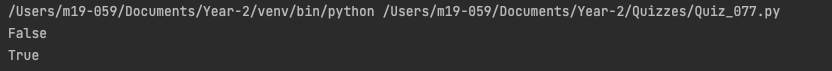
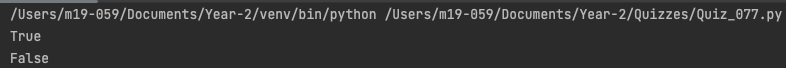
A lot of changes for MD files and py files

Changed region(s): [[0.0, 0.0, 1.0, 0.3235], [0.0, 0.7059, 0.0611, 0.9412], [0.0, 0.3824, 0.0611, 0.6176]]

diff --git a/Quizzes/Quiz_073.py b/Quizzes/Quiz_073.py
@@ -2,29 +2,38 @@ from Quiz_071 import InternetProtocol
 
 
 class RoutingTable:
-    def __init__(self, mac:str):
+    def __init__(self):
         self.routing_table = {}
-        self.mac_in = mac
 
-    def validate(self):
-        return len(self.mac_in) == 17 and self.mac_in.count(":") == 5
+    def validate(self, mac_in: str):
+        return len(mac_in) == 17 and mac_in.count(":") == 5
 
-    def get_ip(self):
-        ip_out = "Error"
-        if self.validate():
-            if self.mac_in in self.routing_table.keys():
-                ip_out = self.routing_table[self.mac_in]
+    def get_ip(self, mac_in):
+        if self.validate(mac_in):
+            ip = ""
+            if mac_in in self.routing_table.keys():
+                ip = self.routing_table[mac_in]
+                unique = False
+                while unique is False:  # Validating IP
+                    temp_class = InternetProtocol(1)
+                    temp_ip = temp_class.ipv6machine()
+                    if temp_ip != ip:
+                        unique = True
+                self.routing_table[mac_in].append(temp_ip[0])  # Adding new IP to the existing list
+
             else:
                 while True:
                     temp_class = InternetProtocol(1)
                     ip = temp_class.ipv6machine()
                     if not ip in self.routing_table.values():
-                        self.routing_table[self.mac_in] = ip
-                        ip_out = ip
+                        self.routing_table[mac_in] = []  # Creating an Empty list for the new MAC in the dictionary
+                        self.routing_table[mac_in].append(ip[0]) #  Adding the new IP to the list
                         break
-                        print(self.routing_table)
-        return ip_out
+        return self.routing_table
 
 
-a = RoutingTable("75:C0:01:03:G4:FB")
-(a.get_ip())
+a = RoutingTable()
+a.get_ip("00:1A:2B:3C:4D:5E")
+a.get_ip("12:34:56:78:90:AB")
+a.get_ip("00:1A:2B:3C:4D:5E")
+print(a.get_ip("FF:EE:DD:CC:BB:AA"))

diff --git a/Quizzes/Quiz_071.py b/Quizzes/Quiz_071.py
@@ -7,9 +7,8 @@ class InternetProtocol():
         self.num_in = num
 
     def ipv6machine(self):
-        num = self.num_in
         all_elem = "abcdefg0123456789"
-        while num > len(self.out_list):
+        while self.num_in > len(self.out_list):
             temp = ""
             for i in range(8):
                 for j in range(4):
@@ -22,5 +21,5 @@ class InternetProtocol():
         return self.out_list
 
 
-a = InternetProtocol(10)
-print(a.ipv6machine())
+# a = InternetProtocol(1)
+# print(a.ipv6machine())

diff --git a/Quizzes/Quiz_070.py b/Quizzes/Quiz_070.py
@@ -1,9 +1,12 @@
 def ipV4machine():
     output = []
-    for i in range(0,256):
-        for j in range(0, 256):
-            for k in range(0, 256):
+    for i in range(0,1):
+        for j in range(0, 1):
+            for k in range(0, 1):
                 for l in range(0, 256):
                     output.append(f"{i}.{j}.{k}.{l}")
 
     return output
+
+
+print(ipV4machine())

diff --git a/Quizzes/Quiz_069.py b/Quizzes/Quiz_069.py
@@ -3,13 +3,12 @@ def net_profit(sales:list):
     for i in range(1, len(sales)):
         if sales[i] < min:
             min = sales[i]
-
         elif sales[i] > max:
             max = sales[i]
 
     return (max-min)
 
 
-a =[0, 12, 122, 121, 123, 1]
+a =[100, 45, 12, 3, 56, 7]
 
-print(net_profit(a))
+print(f"The net profit is ¥ {net_profit(a)}.")

diff --git a/Quizzes/Quiz_075.py b/Quizzes/Quiz_075.py
@@ -19,5 +19,5 @@ class osi_phsyical():
         return out_str[:-1]
 
 
-boi = osi_phsyical("Please Do Not Throw Sausage Pizza Away")
-print(boi.get_output())
+temp_class = osi_phsyical("Please Do Not Throw Sausage Pizza Away")
+print(temp_class.get_output())

diff --git a/Quizzes/Quiz_077.py b/Quizzes/Quiz_077.py
@@ -8,7 +8,7 @@ class PhysicalLayer:
         for i in range(1, len(self.data)):
             num += int(self.data[i])
 
-        if num % 2 != int(self.data[0]):
+        if num % 2 == int(self.data[0]):
             error = True
         return error
 

diff --git a/Quizzes/Quiz_072.py b/Quizzes/Quiz_072.py
@@ -20,5 +20,5 @@ class Mac:
         return out
 
 
-a = Mac(1)
+a = Mac(2)
 print(a.MacGen())

diff --git a/QuizMD/Quiz_073.md b/QuizMD/Quiz_073.md
@@ -6,33 +6,46 @@ from Quiz_071 import InternetProtocol
 
 
 class RoutingTable:
-    def __init__(self, mac:str):
+    def __init__(self):
         self.routing_table = {}
-        self.mac_in = mac
 
-    def validate(self):
-        return len(self.mac_in) == 17 and self.mac_in.count(":") == 5
+    def validate(self, mac_in: str):
+        return len(mac_in) == 17 and mac_in.count(":") == 5
 
-    def get_ip(self):
-        ip_out = "Error"
-        if self.validate():
-            if self.mac_in in self.routing_table.keys():
-                ip_out = self.routing_table[self.mac_in]
+    def get_ip(self, mac_in):
+        if self.validate(mac_in):
+            ip = ""
+            if mac_in in self.routing_table.keys():
+                ip = self.routing_table[mac_in]
+                unique = False
+                while unique is False:  # Validating IP
+                    temp_class = InternetProtocol(1)
+                    temp_ip = temp_class.ipv6machine()
+                    if temp_ip != ip:
+                        unique = True
+                self.routing_table[mac_in].append(temp_ip[0])  # Adding new IP to the existing list
+
             else:
                 while True:
                     temp_class = InternetProtocol(1)
                     ip = temp_class.ipv6machine()
                     if not ip in self.routing_table.values():
-                        self.routing_table[self.mac_in] = ip
-                        ip_out = ip
+                        self.routing_table[mac_in] = []  # Creating an Empty list for the new MAC in the dictionary
+                        self.routing_table[mac_in].append(ip[0]) #  Adding the new IP to the list
                         break
-                        print(self.routing_table)
-        return ip_out
+        return self.routing_table
 
 
-a = RoutingTable("75:C0:01:03:G4:FB")
-(a.get_ip())
+a = RoutingTable()
+a.get_ip("00:1A:2B:3C:4D:5E")
+a.get_ip("12:34:56:78:90:AB")
+a.get_ip("00:1A:2B:3C:4D:5E")
+print(a.get_ip("FF:EE:DD:CC:BB:AA"))
 ```
+### Evidence
+![](/Assets/Quiz_073_evidence.png)
+
+**Fig.1:** Evidence for Quiz 73
 
 ## Paper Programming
 ![](/Assets/Quiz_073_papercode.jpeg)

diff --git a/QuizMD/Quiz_070.md b/QuizMD/Quiz_070.md
@@ -13,7 +13,28 @@ def ipV4machine():
     return output
 ```
 
+### Evidence
+**The code is shortened for displaying the output.**
+#### The modified Code
+```.py
+def ipV4machine():
+    output = []
+    for i in range(0,1):
+        for j in range(0, 1):
+            for k in range(0, 1):
+                for l in range(0, 256):
+                    output.append(f"{i}.{j}.{k}.{l}")
+
+    return output
+
+
+print(ipV4machine())
+```
+![](/Assets/Quiz_070_evidence.png)
+
+**Fig.1:** Evidence for Quiz 70(The emitted code's output)
+
 ## Paper Programming
 ![](/Assets/Quiz_070_papercode.jpeg)
 
-**Fig.1:** Paper Programming for Quiz Num
+**Fig.2:** Paper Programming for Quiz 70

diff --git a/QuizMD/Quiz_069.md b/QuizMD/Quiz_069.md
@@ -7,19 +7,23 @@ def net_profit(sales:list):
     for i in range(1, len(sales)):
         if sales[i] < min:
             min = sales[i]
-
         elif sales[i] > max:
             max = sales[i]
 
     return (max-min)
 
 
-a =[0, 12, 122, 121, 123, 1]
+a =[100, 45, 12, 3, 56, 7]
 
-print(net_profit(a))
+print(f"The net profit is ¥ {net_profit(a)}.")
 ```
+
+### Evidence
+![](/Assets/Quiz_069_evidence.png)
+
+**Fig.1:** Evidence for Quiz 69
 
 ## Paper Programming
 ![](/Assets/Quiz_069_papercode.jpeg)
 
-**Fig.1:** Paper Programming for Quiz 69 
+**Fig.2:** Paper Programming for Quiz 69 

diff --git a/QuizMD/Quiz_075.md b/QuizMD/Quiz_075.md
@@ -23,11 +23,15 @@ class osi_phsyical():
         return out_str[:-1]
 
 
-boi = osi_phsyical("Please Do Not Throw Sausage Pizza Away")
-print(boi.get_output())
+temp_class = osi_phsyical("Please Do Not Throw Sausage Pizza Away")
+print(temp_class.get_output())
 ```
+### Evidence
+![](/Assets/Quiz_075_evidence.png)
+
+**Fig.1:** Evidence for Quiz 75
 
 ## Paper Programming
 ![](/Assets/Quiz_075_papercode.jpeg)
 
-**Fig.1:** Paper Programming for Quiz Num
+**Fig.2:** Paper Programming for Quiz Num

diff --git a/QuizMD/Quiz_077.md b/QuizMD/Quiz_077.md
@@ -3,6 +3,7 @@
 ## Python Solution 
 ```.py
 class PhysicalLayer:
+class PhysicalLayer:
     def __init__(self, data:str):
         self.data = data
 
@@ -12,7 +13,7 @@ class PhysicalLayer:
         for i in range(1, len(self.data)):
             num += int(self.data[i])
 
-        if num % 2 != int(self.data[0]):
+        if num % 2 == int(self.data[0]):
             error = True
         return error
 
